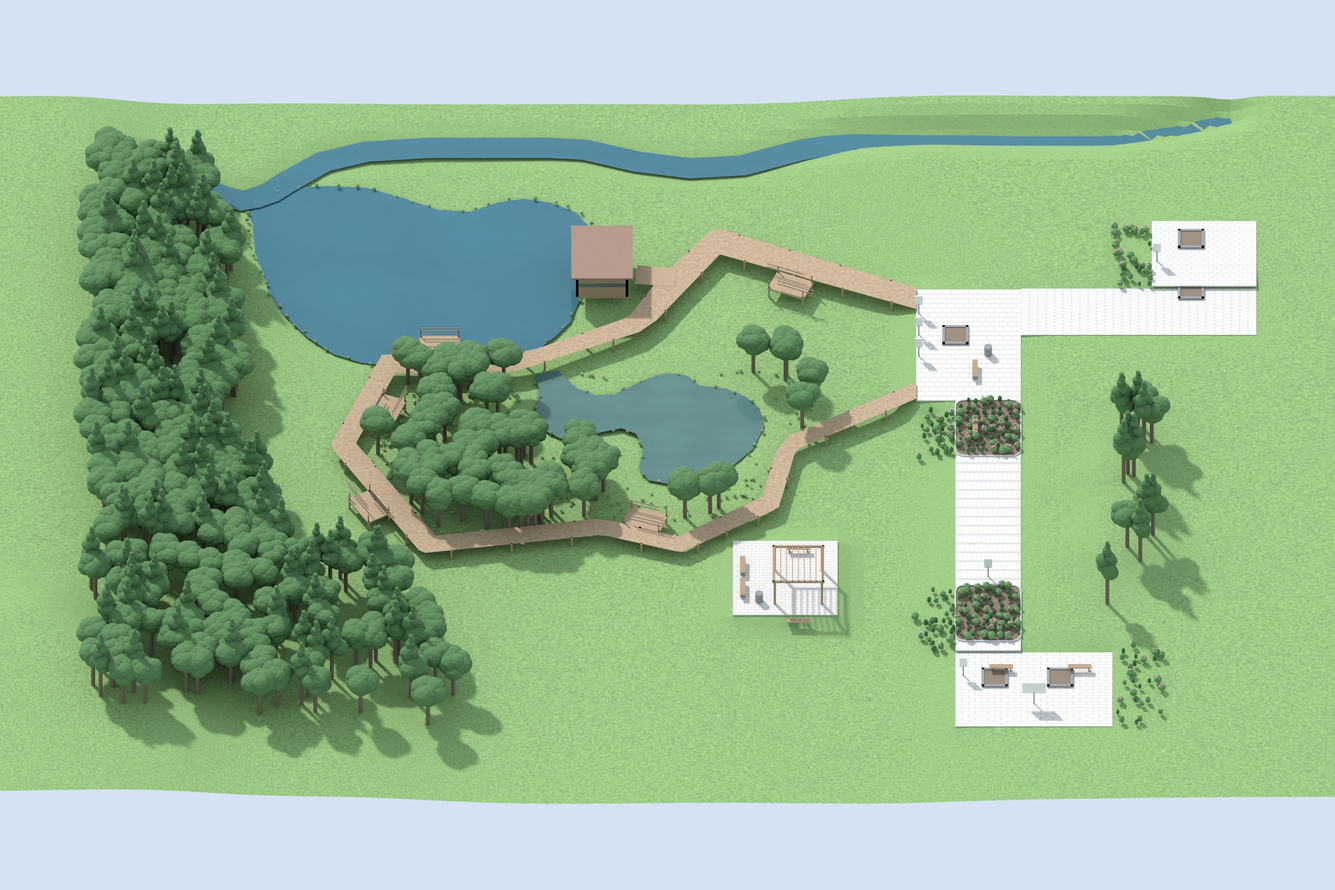
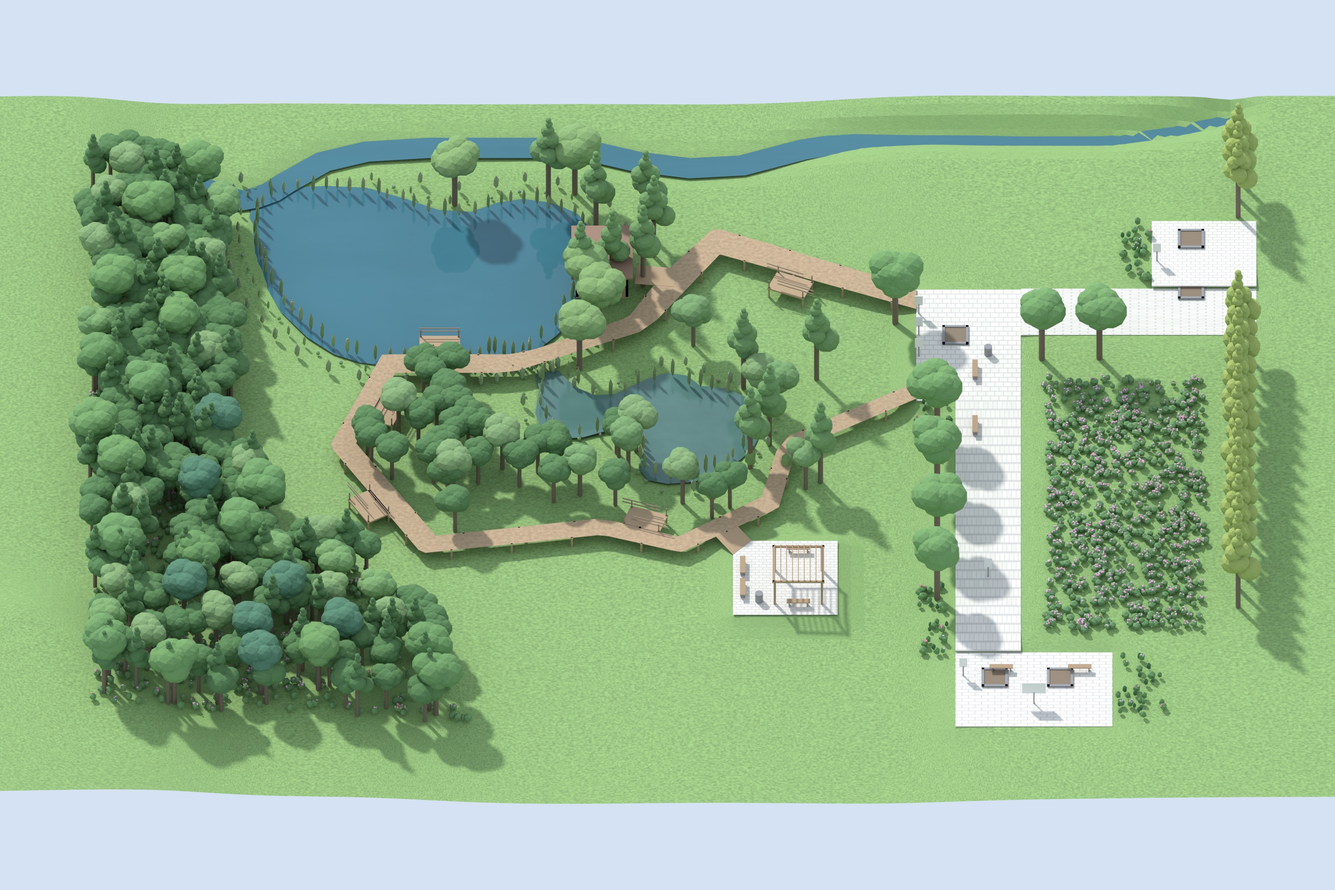
401 탭 — 배식설계도 반영판으로 갈아 끼운다
수목수량표의 수종·수량을 넣고 휴게공간 진입로를 데크로 놓은 모형에서
다시 뽑았다. 실사 조감도도 새 식재로 다시 만들었다 — 은행나무 열,
진달래·철쭉 군식, 수변 갈대·부들이 그림에서 읽힌다.

Changed region(s): [[0.0312, 0.125, 1.0, 0.875], [0.9062, 0.125, 1.0, 0.3125], [0.5938, 0.6562, 0.625, 0.7188]]

diff --git a/_ls_drawing_refs/401_입체평면도/content.md b/_ls_drawing_refs/401_입체평면도/content.md
@@ -251,3 +251,29 @@
 저수지·습지·관찰로·관찰데크 5·조류관찰소·휴게공간·진입광장 2·모임광장·수목보호대 5·
 기존수림 경계가 모두 도면 선 안에 들어옵니다.
 
+## 배식설계도(답안지 III)를 반영했습니다
+
+수목수량표의 수종과 수량을 그대로 넣고, **식재 기능**에 따라 자리를 잡았습니다.
+
+| 구분 | 수종 · 수량 |
+| --- | --- |
+| 산림지구 | 소나무 7 · 느티나무 7 · 은행나무 18 · 갈참나무 5 · 졸참나무 9 · 상수리나무 4 · 층층나무 7 · 산벚나무 20 · 병꽃나무 600 · 진달래 240 · 철쭉 540 |
+| 습지지구 | 버드나무 5 · 메타세쿼이아 12 · 산딸나무 5 · 생강나무 4 · 갯버들 120 · 철쭉 140 |
+| 수생구 | 부들 · 골풀 · 갈대 |
+
+- **은행나무 18** — 동측 도로변에 한 줄(완충식재, 주택가와 기능 분리)
+- **느티나무 7** — 주동선을 따라(유도식재)
+- **진달래 · 철쭉** — 마운딩 일대(경관식재)
+- **부들 · 갈대 · 골풀** — 저수지 물가, **갯버들** — 습지 가장자리
+
+교목은 규격(H4.0 × R15 등)에 맞춰 크기와 잎색을 달리했습니다 — 은행나무는 밝은 황록,
+소나무는 짙은 청록입니다.
+
+## 고친 것 둘
+
+- **휴게공간은 북서 모서리가 45° 로 잘린 오각형**이고, 그 잘린 변에서 관찰로로 2m 폭
+  **사선 진입로**가 나갑니다(P39 · P40). 처음에는 네모로 두어 데크에서 들어갈 길이
+  없었습니다. 진입로는 포장이 아니라 **데크**입니다
+- 보행로(소형고압블럭포장) 위에 관목을 심어 두었습니다. **도면의 빗금을 식재지로 잘못
+  읽은 것**인데, 바로 옆에 '소형고압블럭포장'이라 적혀 있습니다. 걷어냈습니다
+
